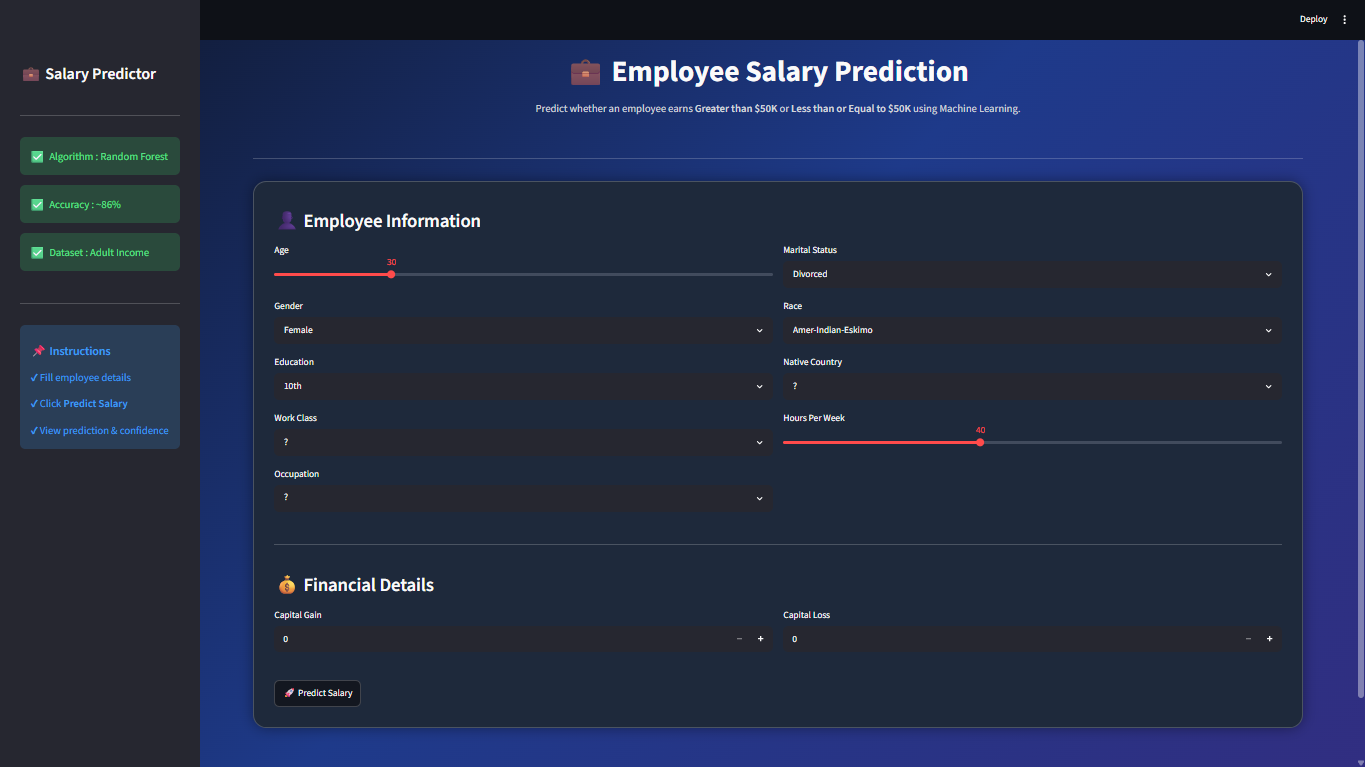
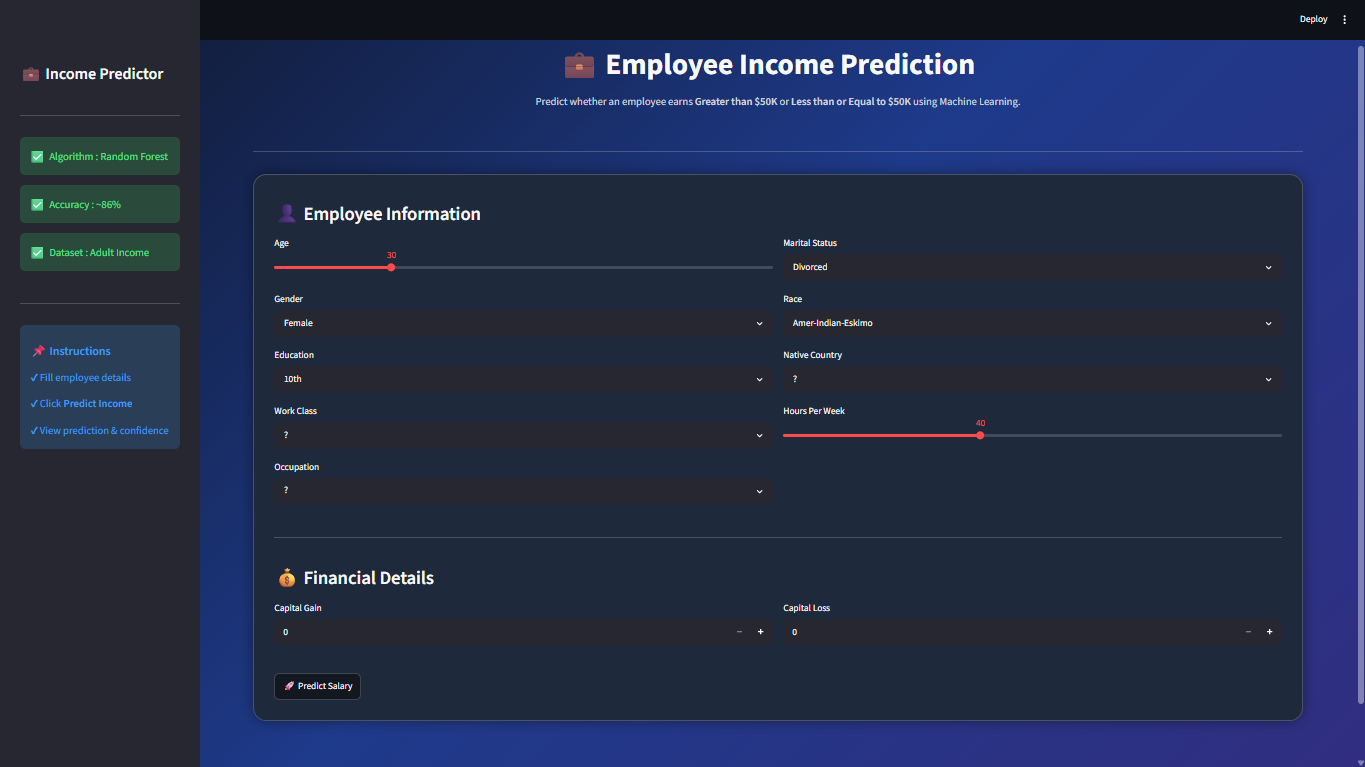
Modify app.py file.

diff --git a/app.py b/app.py
@@ -103,7 +103,7 @@ padding-top:20px;
 # SIDEBAR
 # ============================================
 
-st.sidebar.title("💼 Salary Predictor")
+st.sidebar.title("💼 Income Predictor")
 
 st.sidebar.markdown("---")
 
@@ -121,7 +121,7 @@ st.sidebar.info(
 
 ✔ Fill employee details
 
-✔ Click **Predict Salary**
+✔ Click **Predict Income**
 
 ✔ View prediction & confidence
 """
@@ -134,7 +134,7 @@ st.sidebar.info(
 st.markdown(
 """
 <h1 class="main-title">
-💼 Employee Salary Prediction
+💼 Employee Income Prediction
 </h1>
 
 <p class="sub-title">